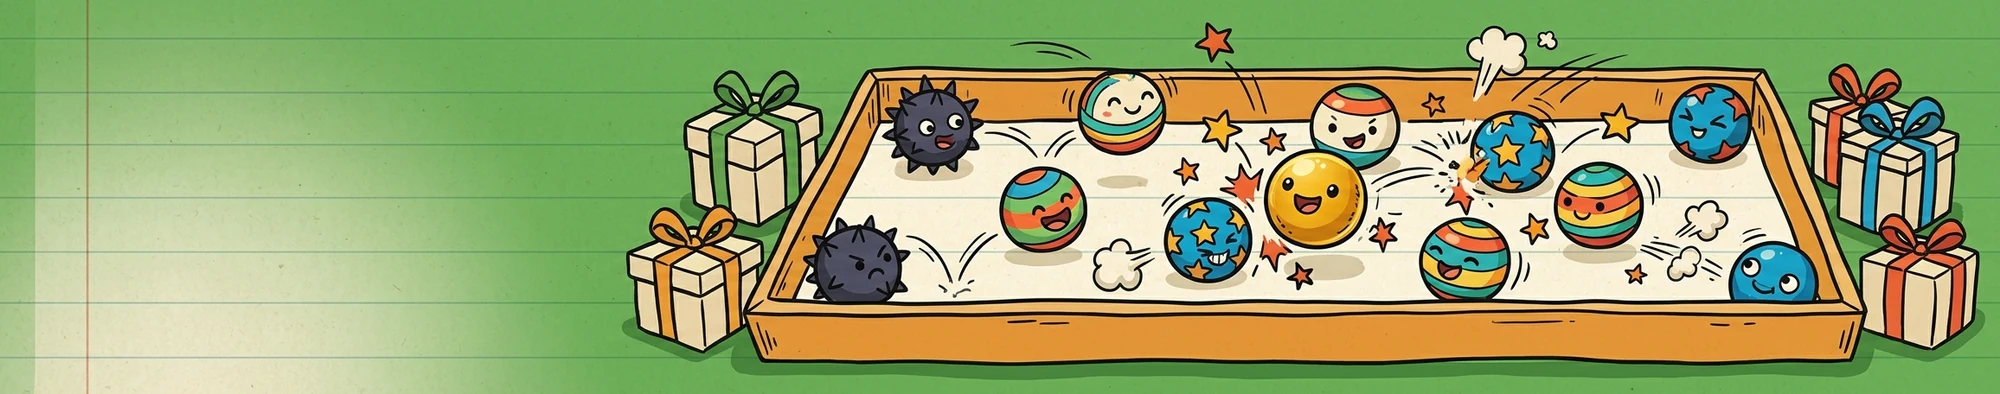
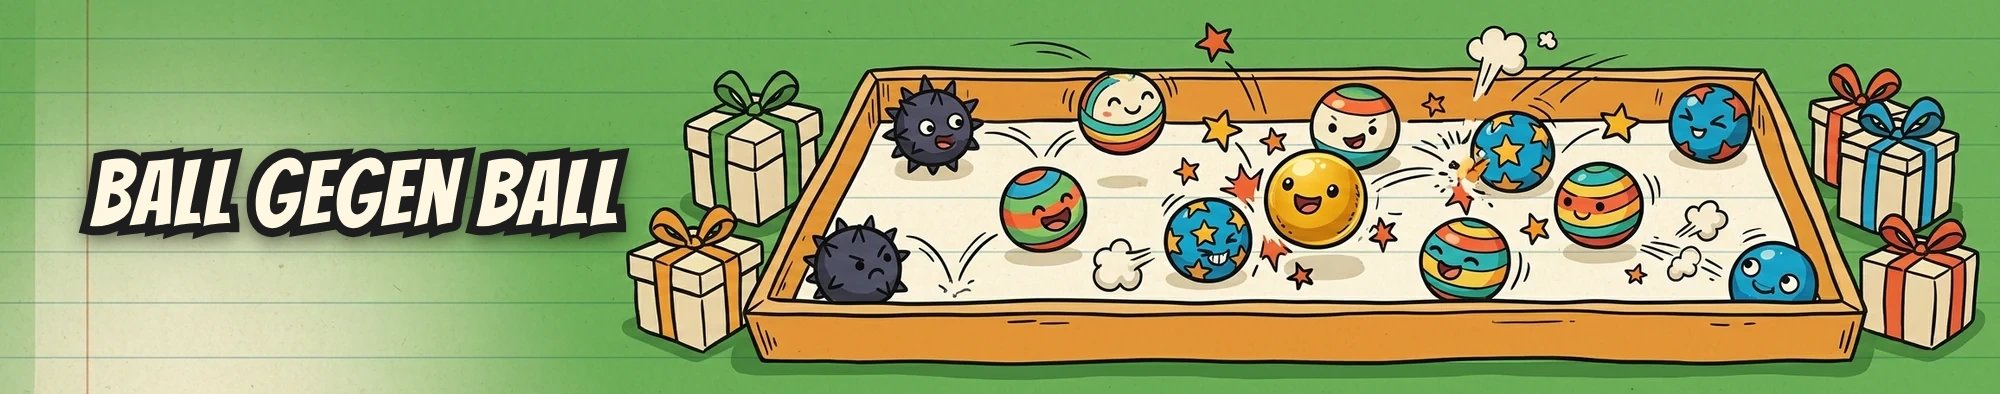
Wallpapers mit Titel im Hub, in voller Breite auf Handy und Tablet
Claude-Session: https://claude.ai/code/session_01QqVFR4XcLXcufKkRsvnfj7

Changed region(s): [[0.031, 0.3655, 0.341, 0.6396]]

diff --git a/public/app.js b/public/app.js
@@ -126,7 +126,13 @@
     var hero = null;
     if (filter === 'Alle' && !suche) hero = spielbar().filter(function (s) { return s.featured; })[0] || spielbar()[0];
     var h = '';
-    if (hero) {
+    if (hero && hero.wallpaper) {
+      h += '<section class="hero hero-titel" aria-label="Empfohlen"><h1 class="sr-only">' + esc(hero.name) + '</h1>';
+      h += '<a class="hero-bild" href="#spiel/' + encodeURIComponent(hero.id) + '"><img src="' + esc(hero.wallpaper) + '" alt="' + esc(hero.name) + '" decoding="async"></a>';
+      h += '<div class="hero-leiste"><div class="hero-text"><span class="eyebrow">Empfohlen</span><p>' + esc(hero.text) + '</p></div>';
+      h += '<div class="btn-row"><a class="btn btn-primary" href="#spiel/' + encodeURIComponent(hero.id) + '/play">' + playIcon() + 'Jetzt spielen</a>';
+      h += '<a class="btn btn-ghost" href="#spiel/' + encodeURIComponent(hero.id) + '">Mehr erfahren</a></div></div></section>';
+    } else if (hero) {
       h += '<section class="hero" aria-label="Empfohlen">' + art(hero, 1200, 480) + '<div class="hero-body">';
       h += '<span class="eyebrow">Empfohlen</span><h1>' + esc(hero.name) + '</h1><p>' + esc(hero.text) + '</p>';
       h += '<div class="btn-row"><a class="btn btn-primary" href="#spiel/' + encodeURIComponent(hero.id) + '/play">' + playIcon() + 'Jetzt spielen</a>';
@@ -145,10 +151,11 @@
 
   function renderDetail(sp) {
     var id = encodeURIComponent(sp.id);
-    var h = '<div class="detail-banner">' + art(sp, 1400, 420) + '<a class="zurueck-link" href="#"><svg aria-hidden="true"><use href="#i-back"/></svg>Alle Spiele</a></div>';
-    h += '<div class="detail-wrap"><div class="detail-kopf"><div class="detail-cover">' + art(sp, 300, 400) + '</div><div class="detail-info">';
+    var titel = !!sp.wallpaper;
+    var h = '<div class="detail-banner' + (titel ? ' titel' : '') + '">' + (titel ? '<img class="titelbild" src="' + esc(sp.wallpaper) + '" alt="' + esc(sp.name) + '" decoding="async">' : art(sp, 1400, 420)) + '<a class="zurueck-link" href="#"><svg aria-hidden="true"><use href="#i-back"/></svg>Alle Spiele</a></div>';
+    h += '<div class="detail-wrap' + (titel ? ' titel' : '') + '"><div class="detail-kopf"><div class="detail-cover">' + (titel ? art(sp, 300, 300) : art(sp, 300, 400)) + '</div><div class="detail-info">';
     var v = ver(sp);
-    h += '<h1>' + esc(sp.name) + '</h1>' + pills(sp);
+    h += '<h1' + (titel ? ' class="sr-only"' : '') + '>' + esc(sp.name) + '</h1>' + pills(sp);
     if (v) h += '<div class="ver-zeile"><span class="ver-pill' + (v.offiziell ? ' offiziell' : '') + '">' + (v.offiziell ? 'Offiziell' : 'Beta') + '</span><span class="ver-nr">Version ' + esc(v.version) + '</span><span class="ver-datum">zuletzt aktualisiert am ' + esc(datumText(v.datum)) + '</span></div>';
     h += '<div class="btn-row"><a class="btn btn-primary" href="#spiel/' + id + '/play">' + playIcon() + 'Spielen</a>';
     h += '<a class="btn btn-ghost" href="' + esc(sp.url) + '" target="_blank" rel="noopener">In neuem Tab öffnen</a></div></div></div>';

diff --git a/public/style.css b/public/style.css
@@ -263,3 +263,28 @@ body[data-view="play"] .spiel { display: flex; }
 .icon-art { overflow: hidden; background: var(--panel-2); }
 .icon-art .bg { position: absolute; inset: -12%; width: 124%; height: 124%; object-fit: cover; filter: blur(22px) brightness(.5) saturate(1.2); }
 .icon-art .fg { position: absolute; left: 9%; top: 7%; width: 82%; height: auto; aspect-ratio: 1; object-fit: cover; border-radius: 20%; box-shadow: 0 14px 34px rgba(0, 0, 0, .5), 0 0 0 1px rgba(255, 255, 255, .1); }
+
+/* ---------- Titel-Wallpaper (Spielname ist ins Bild eingebaut) ---------- */
+.sr-only { position: absolute; width: 1px; height: 1px; margin: -1px; padding: 0; overflow: hidden; clip: rect(0, 0, 0, 0); white-space: nowrap; border: 0; }
+.hero-titel { display: block; min-height: 0; background: var(--panel); }
+.hero-titel::after { display: none; }
+.hero-bild { display: block; }
+.hero-bild img { display: block; width: 100%; height: auto; }
+.hero-leiste { display: flex; align-items: center; justify-content: space-between; gap: 20px; padding: 16px 24px 18px; }
+.hero-text { min-width: 0; }
+.hero-text .eyebrow { margin-bottom: 4px; }
+.hero-text p { margin: 0; color: #d3dae7; font-size: 16px; max-width: 64ch; }
+.hero-leiste .btn-row { flex: none; }
+.detail-banner.titel { height: auto; background: var(--bg); }
+.detail-banner.titel::after { display: none; }
+.detail-banner .titelbild { display: block; width: 100%; height: auto; }
+.detail-banner.titel { display: flex; flex-direction: column-reverse; }
+.detail-banner.titel .zurueck-link { position: static; align-self: flex-start; margin: 14px 28px 14px; }
+.detail-wrap.titel .detail-cover { aspect-ratio: 1 / 1; width: 180px; }
+.detail-wrap.titel { margin-top: 26px; }
+@media (max-width: 900px) {
+  .hero-leiste { flex-direction: column; align-items: flex-start; gap: 14px; padding: 14px 16px 16px; }
+  .detail-banner.titel .zurueck-link { margin: 12px 16px; }
+  .detail-wrap.titel .detail-cover { width: 140px; }
+  .detail-wrap.titel { margin-top: 20px; }
+}

diff --git a/README.md b/README.md
@@ -98,3 +98,9 @@ oder den Ordner `public/` mit einem beliebigen statischen Server öffnen.
 ## Deploy
 
 Cloudflare Worker mit statischen Dateien (`wrangler.jsonc`), automatisch bei jedem Push auf `main`.
+
+## Spielbilder
+
+Jedes Spiel hat in `games.json` ein `icon` (1:1, 512 px, für Kacheln und Bibliothek) und ein `wallpaper` (ca. 5:1, 2000 px breit, mit eingebautem Spielnamen). Der Hub zeigt das Wallpaper auf der Startseite und der Detailseite in voller Breite, ohne Zuschnitt. Die Spielnamen stehen als unsichtbarer Text (`sr-only`) daneben, damit Suche, Screenreader und Seitentitel weiter funktionieren.
+
+Die Wallpapers ohne Titel liegen in `grafik/wallpaper-ohne-titel/`, die Varianten mit Titel in `grafik/wallpaper-mit-titel/` (diese sind dieselben Dateien, die im Hub liegen). Fehlt `wallpaper`, zeigt der Hub die alte Ansicht mit Screenshot (`banner`) bzw. gezeichnetem Platzhalter.
